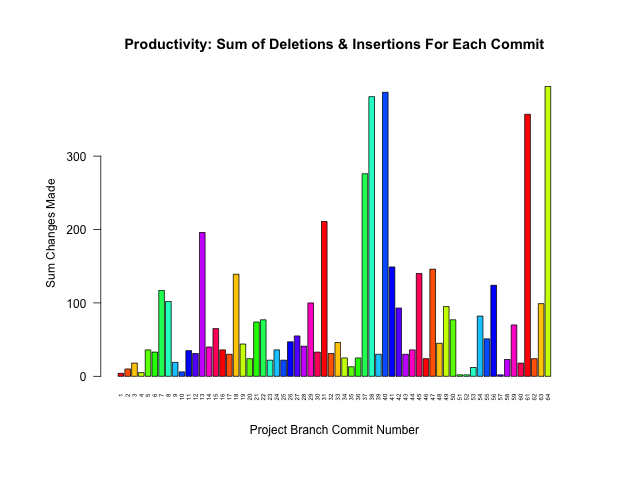
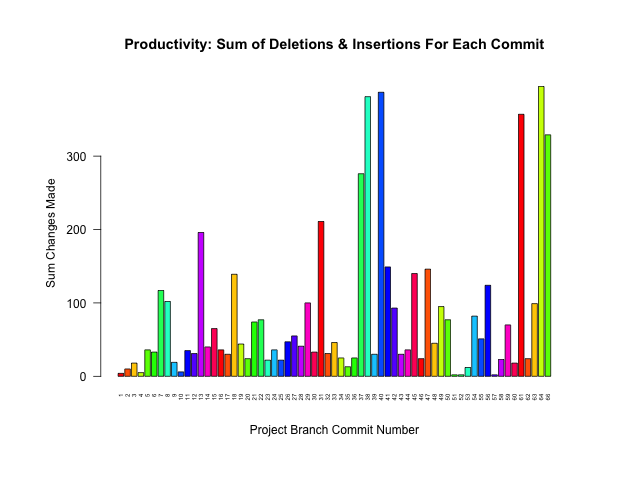
COMMIT #232

Changed region(s): [[0.1875, 0.1562, 0.875, 0.7812], [0.2188, 0.8125, 0.8438, 0.8438]]

diff --git a/README.md b/README.md
@@ -17,9 +17,9 @@ ProjectName::BranchName.data
 
 Project Name | Last Updated | # Commits | # Branches | Branches Merged
 :---|:---:|:---:|:---:|:---:
+[learn_some_C.Plus.Plus](https://github.com/pierremigeon/learn_some_C.Plus.Plus)                    |  2023-07-07  |  66   |  1  |  100%  (1/1)
 [Algorithms_practice](https://github.com/pierremigeon/Algorithms_practice)                          |  2023-07-06  |  8    |  1  |  100%  (1/1)
-[commit_tracker](https://github.com/pierremigeon/commit_tracker)                                    |  2023-07-05  |  230  |  1  |  100%  (1/1)
-[learn_some_C.Plus.Plus](https://github.com/pierremigeon/learn_some_C.Plus.Plus)                    |  2023-07-02  |  65   |  1  |  100%  (1/1)
+[commit_tracker](https://github.com/pierremigeon/commit_tracker)                                    |  2023-07-06  |  231  |  1  |  100%  (1/1)
 [libft](https://github.com/pierremigeon/libft)                                                      |  2023-06-05  |  30   |  2  |  50%   (1/2)
 [ft_printf](https://github.com/pierremigeon/ft_printf)                                              |  2023-06-01  |  37   |  2  |  100%  (2/2)
 [minishell](https://github.com/pierremigeon/minishell)                                              |  2023-05-20  |  78   |  8  |  88%   (7/8)
